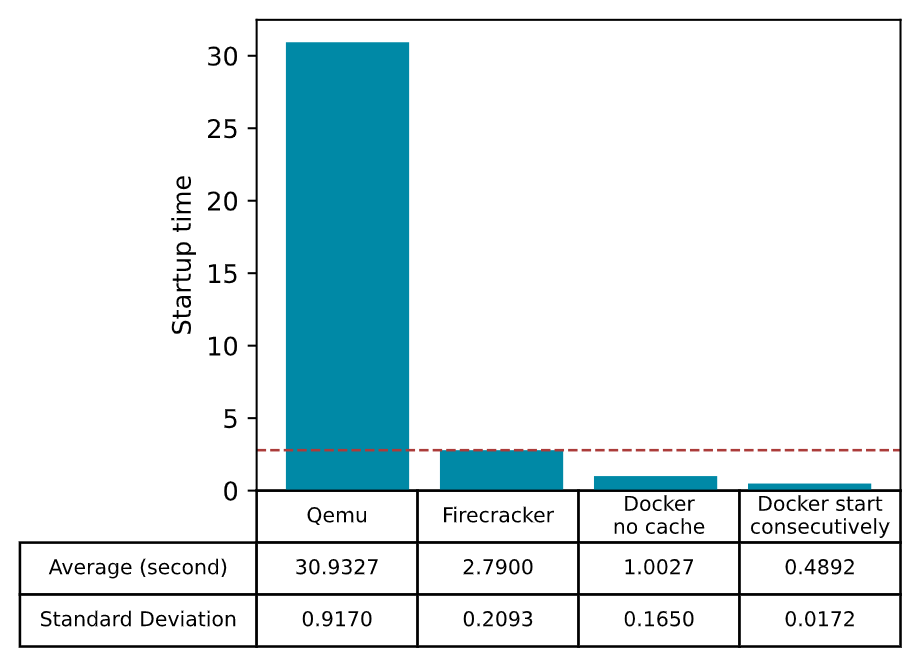
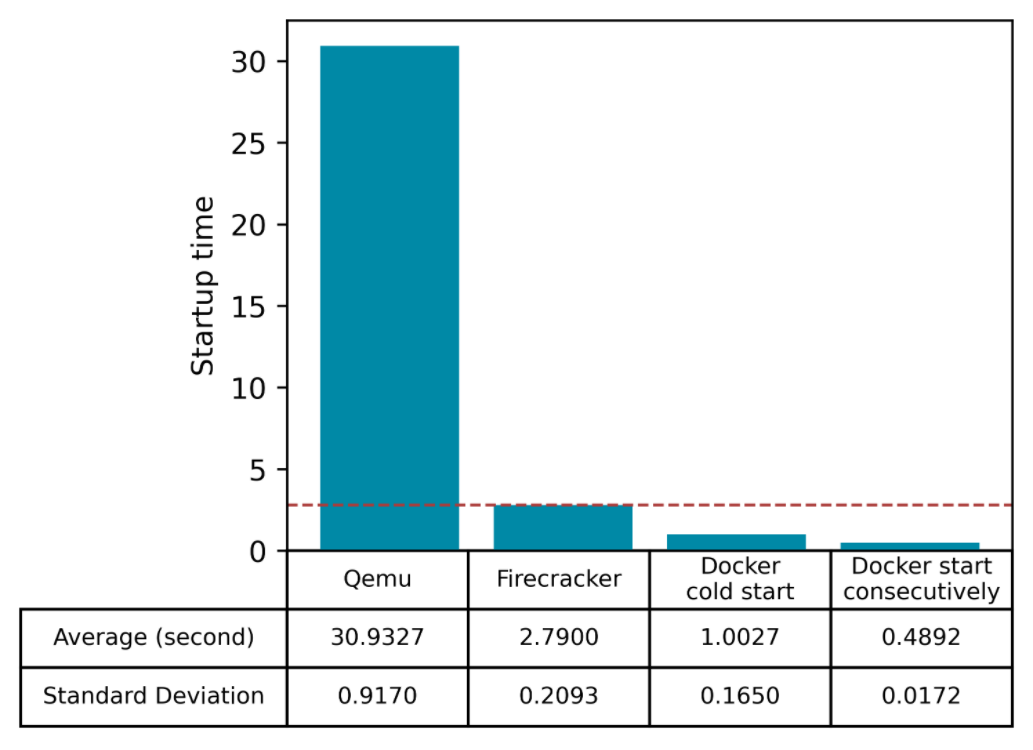
some modification

diff --git a/Starttime/start_text.py b/Starttime/start_text.py
@@ -42,7 +42,7 @@ import matplotlib
 
 matplotlib.rc('figure', figsize=(5, 2)) # adjust scale
 
-column=['Qemu','Firecracker','Docker\nno cache','Docker start\nconsecutively']
+column=['Qemu','Firecracker','Docker\ncold start','Docker start\nconsecutively']
 
 data=[qemu,fc,docker_nc,docker_cosc]
 
